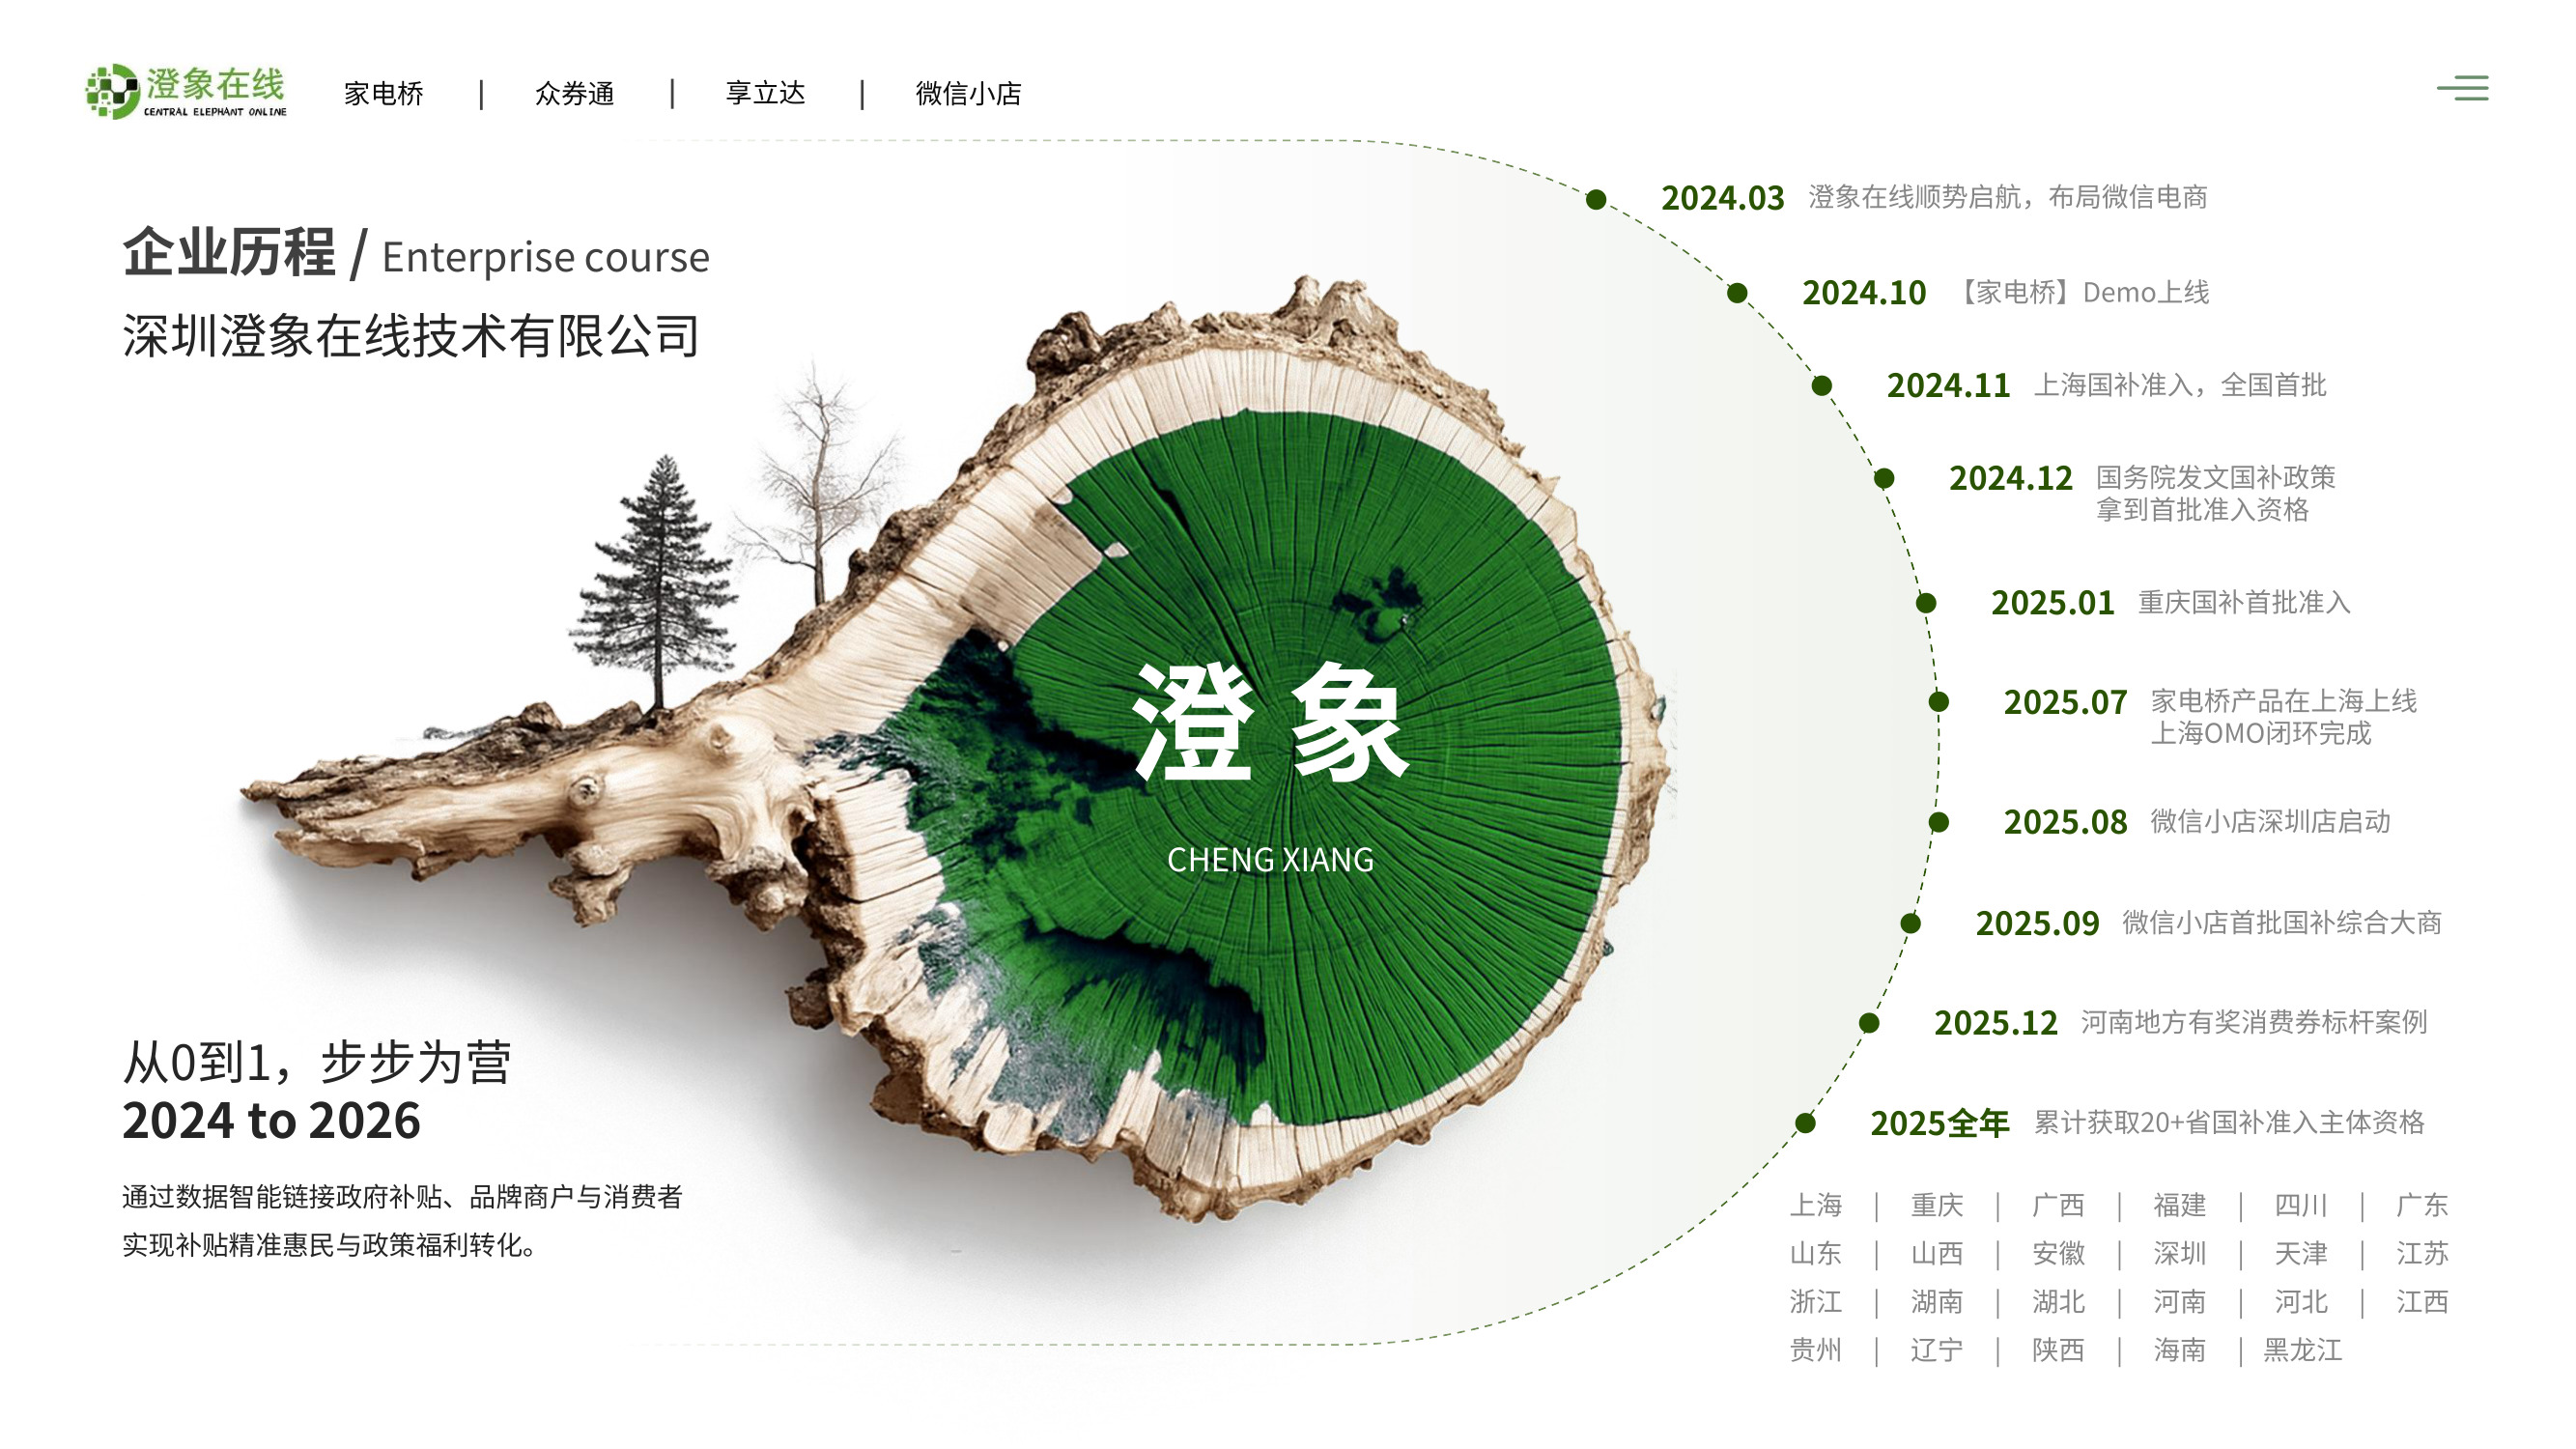
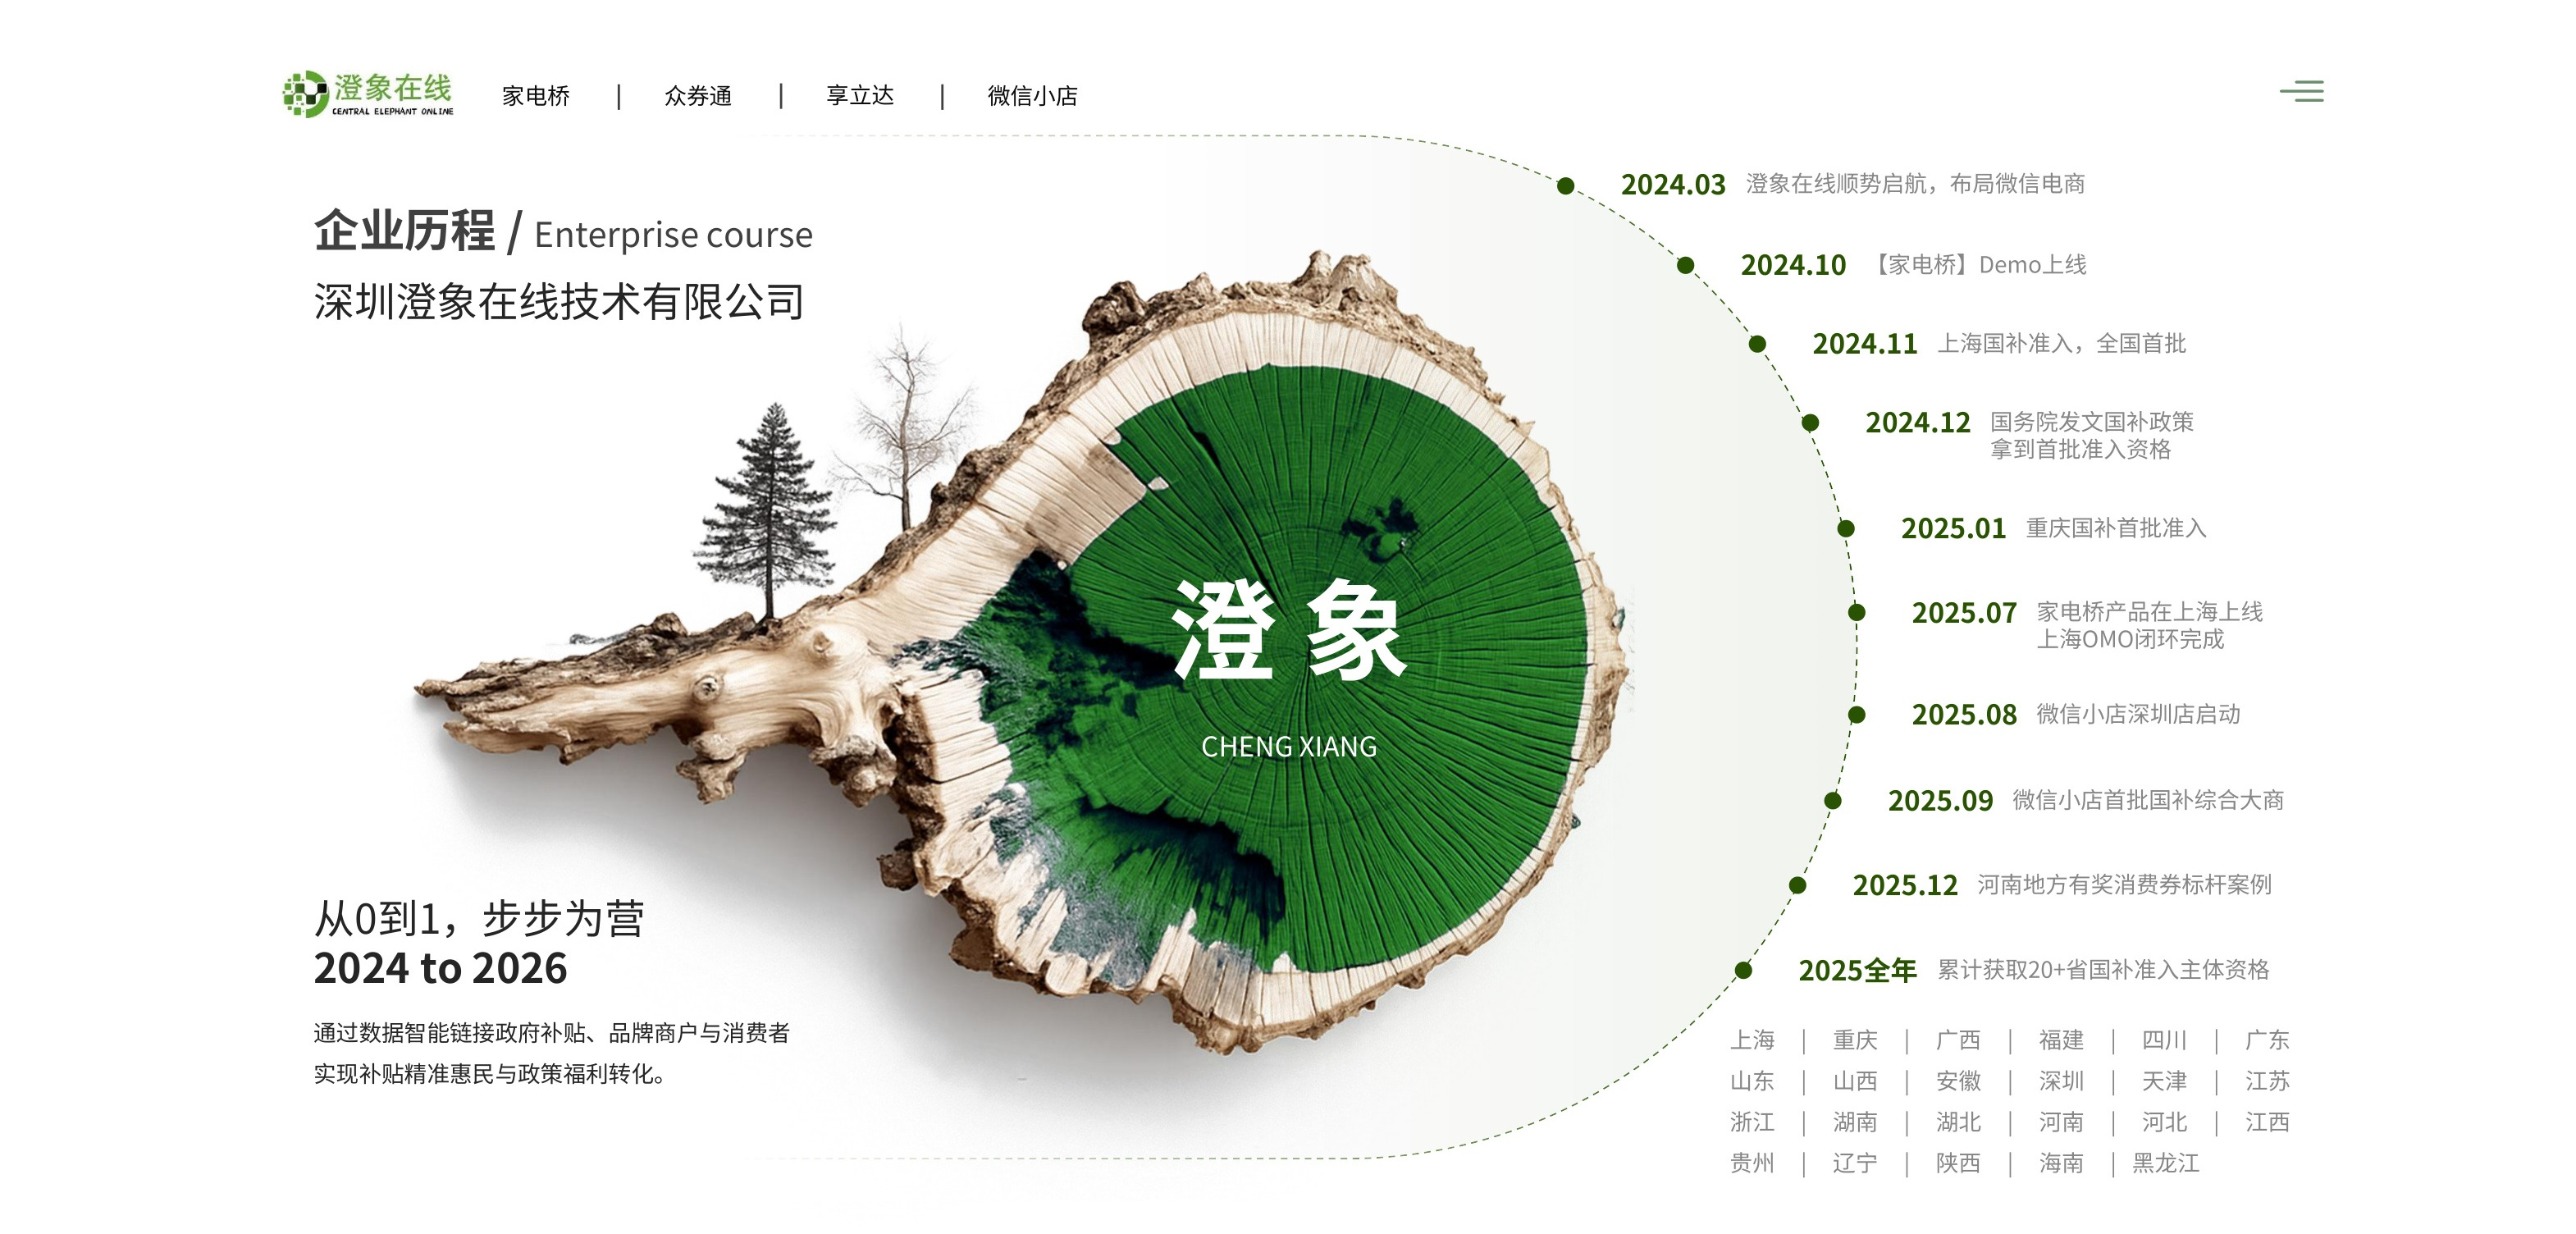
fix

diff --git a/index.html b/index.html
@@ -48,8 +48,8 @@
 
   <main>
     <section class="hero-carousel" data-carousel aria-label="核心业务轮播">
-      <article class="hero-slide active" data-slide style="background-image: url('assets/images/business/1.jpg');">
-      </article>
+      <!-- <article class="hero-slide active" data-slide style="background-image: url('assets/images/business/1.jpg');">
+      </article> -->
       <article class="hero-slide" data-slide style="background-image: url('assets/images/business/2.jpg');"></article>
       <article class="hero-slide" data-slide style="background-image: url('assets/images/business/3.jpg');"></article>
       <article class="hero-slide" data-slide style="background-image: url('assets/images/business/hezuo.jpg');">
@@ -95,8 +95,8 @@
       <div class="container proof-modern">
         <div>
           <p class="section-kicker">Partners</p>
-          <h2>品牌与公开材料</h2>
-          <p class="section-lead">展示品牌 Logo、公示截图和媒体材料。</p>
+          <h2>合作品牌logo展示</h2>
+          <!-- <p class="section-lead">展示品牌 Logo、公示截图和媒体材料。</p> -->
         </div>
         <div class="logo-wall compact" aria-label="合作品牌 Logo">
           <div class="logo-card"><img class="partner-logo" src="assets/images/partners/haier.png" alt="海尔"></div>